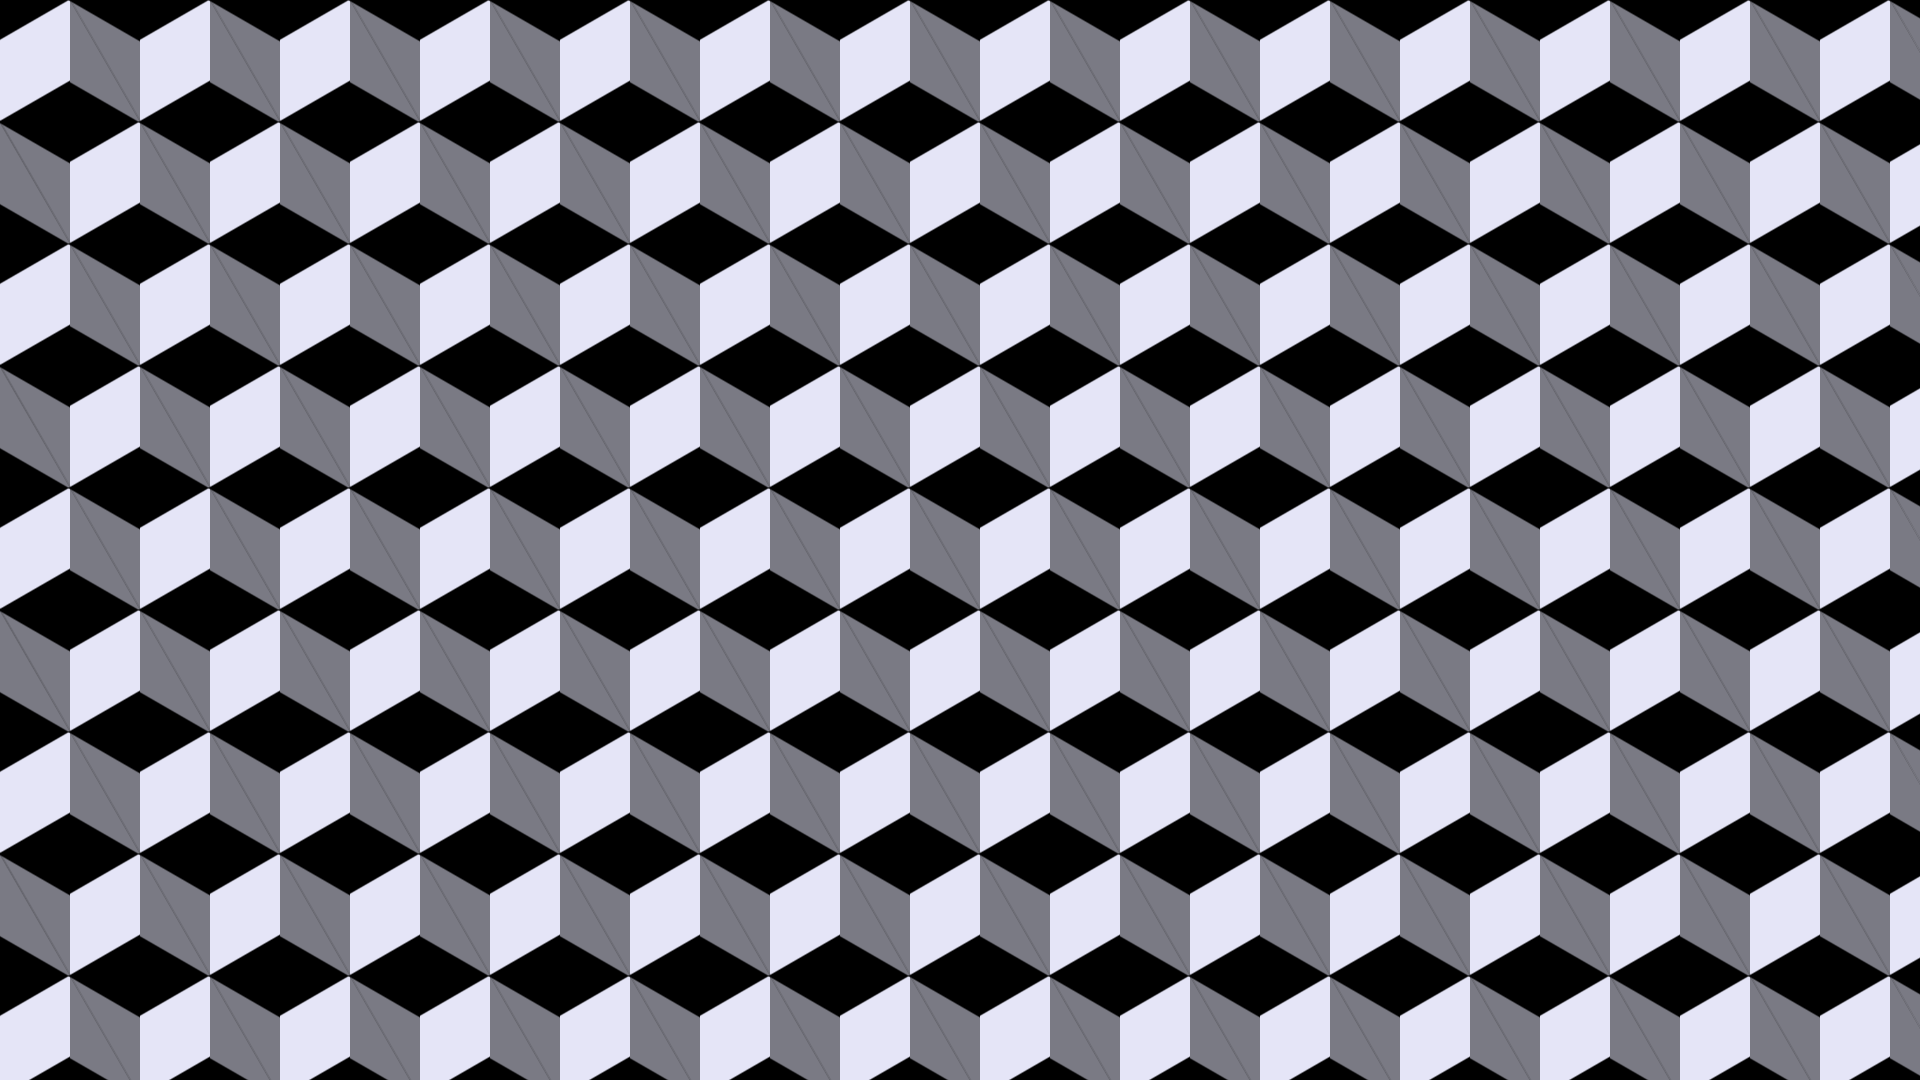
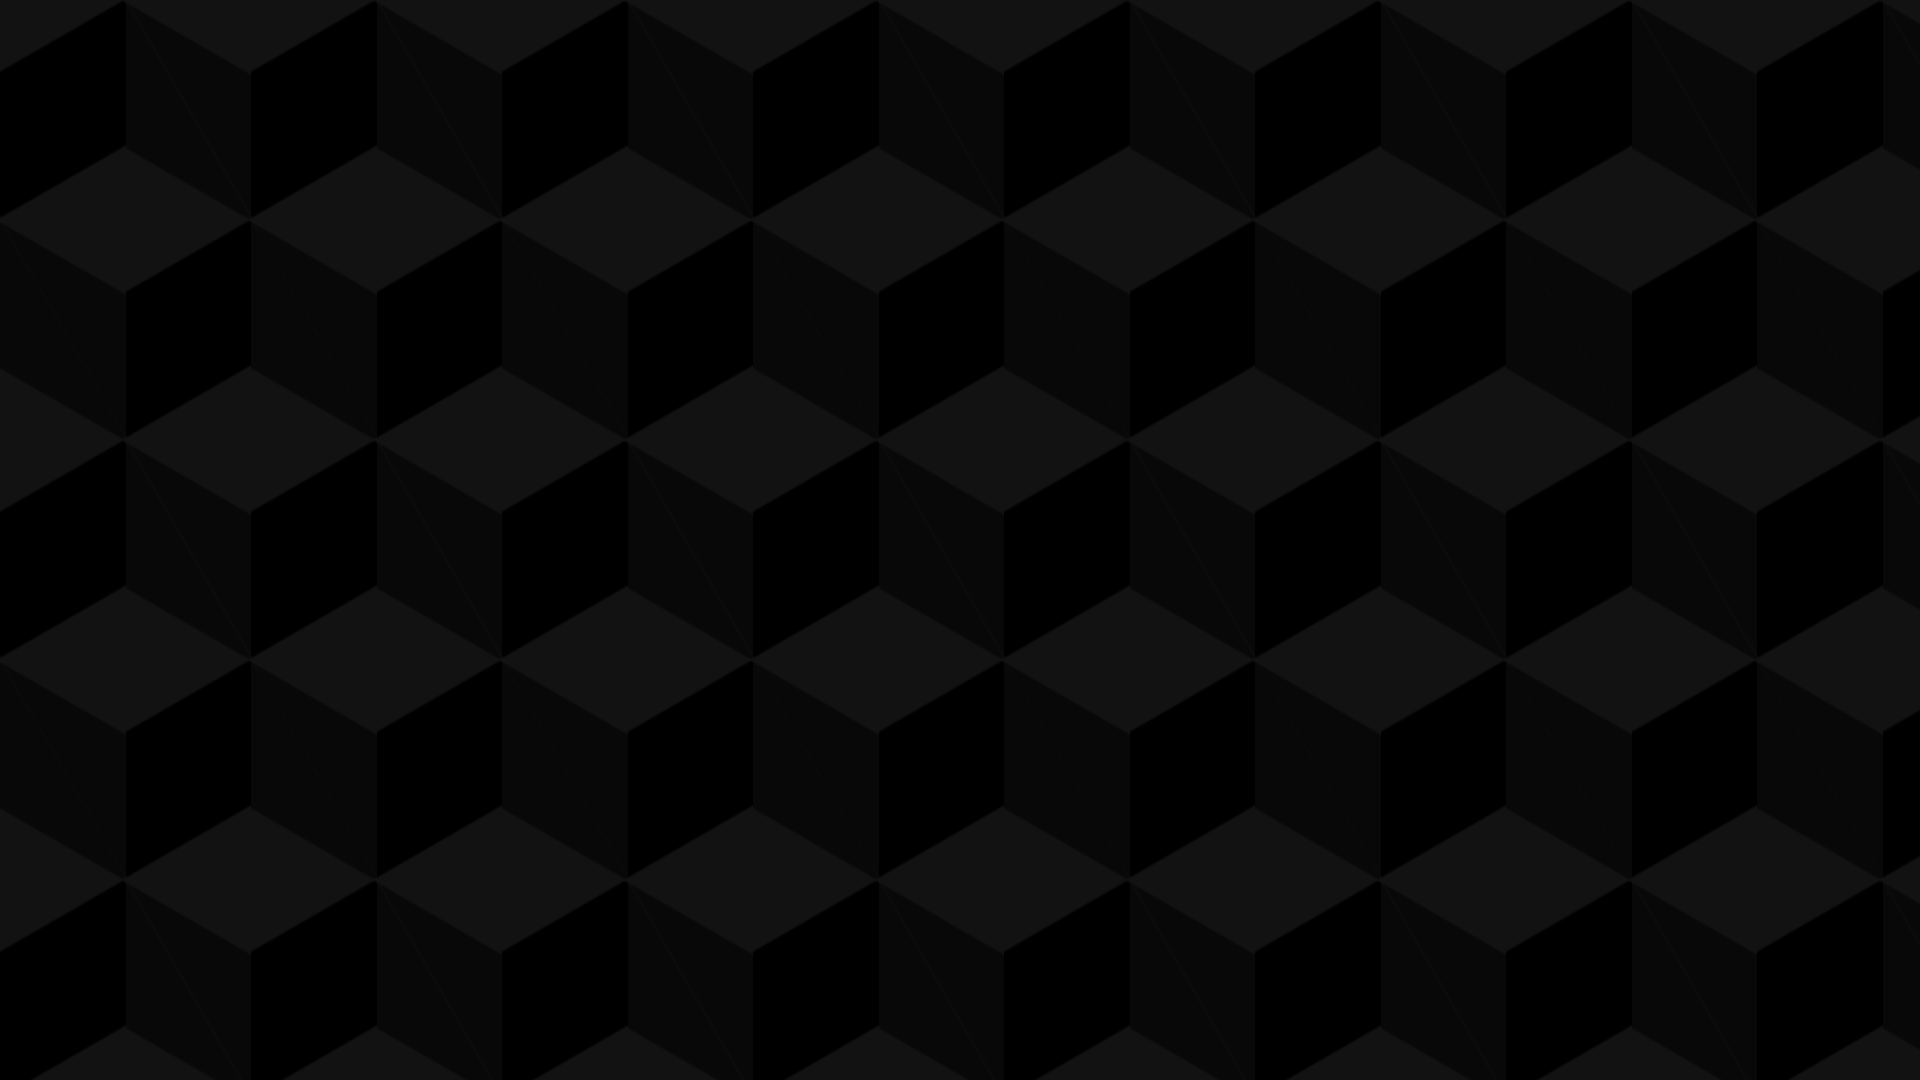
fixed background image and restructured layout

diff --git a/app/page.tsx b/app/page.tsx
@@ -1,14 +1,21 @@
-import React from "react";
+import Link from "next/link";
 
 export default function Page() {
   return (
-    <main className="bg-black bg-blend-darken bg-opacity-95 bg-isometric-pattern bg-left flex justify-center items-center h-screen">
+    <main className="flex flex-col justify-center items-center gap-10 h-screen">
       <h1 className="text-7xl tracking-widest font-bold">
         Game
         <span className="text-transparent bg-gradient-to-r from-sky-400 via-violet-500 to-fuchsia-500 bg-clip-text inline-block">
           Share
         </span>
       </h1>
+      <p className="text-5xl font-extralight">Find Your Next Obsession.</p>
+      <Link
+        href="/login"
+        className="p-4 bg-fuchsia-500 rounded-xl shadow-xl text-black font-bold text-xl hover:bg-violet-600 transition duration-300 ease-in-out transform hover:scale-110 hover:shadow-2xl"
+      >
+        Press Start
+      </Link>
     </main>
   );
 }

diff --git a/app/dashboard/layout.tsx b/app/dashboard/layout.tsx
@@ -1,17 +1,11 @@
 import { Footer, Navbar } from "@/components";
 
-export default function Layout({
-  children,
-}: Readonly<{
-  children: React.ReactNode;
-}>) {
+export default function Layout({ children }: { children: React.ReactNode }) {
   return (
-    <html lang="en">
-      <body className="px-6 h-screen overflow-scroll">
-        <Navbar />
-        {children}
-        <Footer />
-      </body>
-    </html>
+    <div className="px-6 h-screen overflow-scroll">
+      <Navbar />
+      {children}
+      <Footer />
+    </div>
   );
 }

diff --git a/app/layout.tsx b/app/layout.tsx
@@ -12,12 +12,12 @@ export const metadata: Metadata = {
 
 export default function RootLayout({
   children,
-}: Readonly<{
+}: {
   children: React.ReactNode;
-}>) {
+}) {
   return (
     <html lang="en">
-      <body className={`h-screen overflow-hidden ${inter.className}`}>
+      <body className={`bg-isometric-pattern text-white ${inter.className}`}>
         {children}
       </body>
     </html>

diff --git a/app/globals.css b/app/globals.css
@@ -15,8 +15,3 @@ Background Grey - #161616
   padding: 0;
   box-sizing: border-box;
 }
-
-body {
-  background: #000;
-  color: white;
-}

diff --git a/app/login/page.tsx b/app/login/page.tsx
@@ -1,0 +1,5 @@
+import React from "react";
+
+export default function Login() {
+  return <div>Login</div>;
+}
